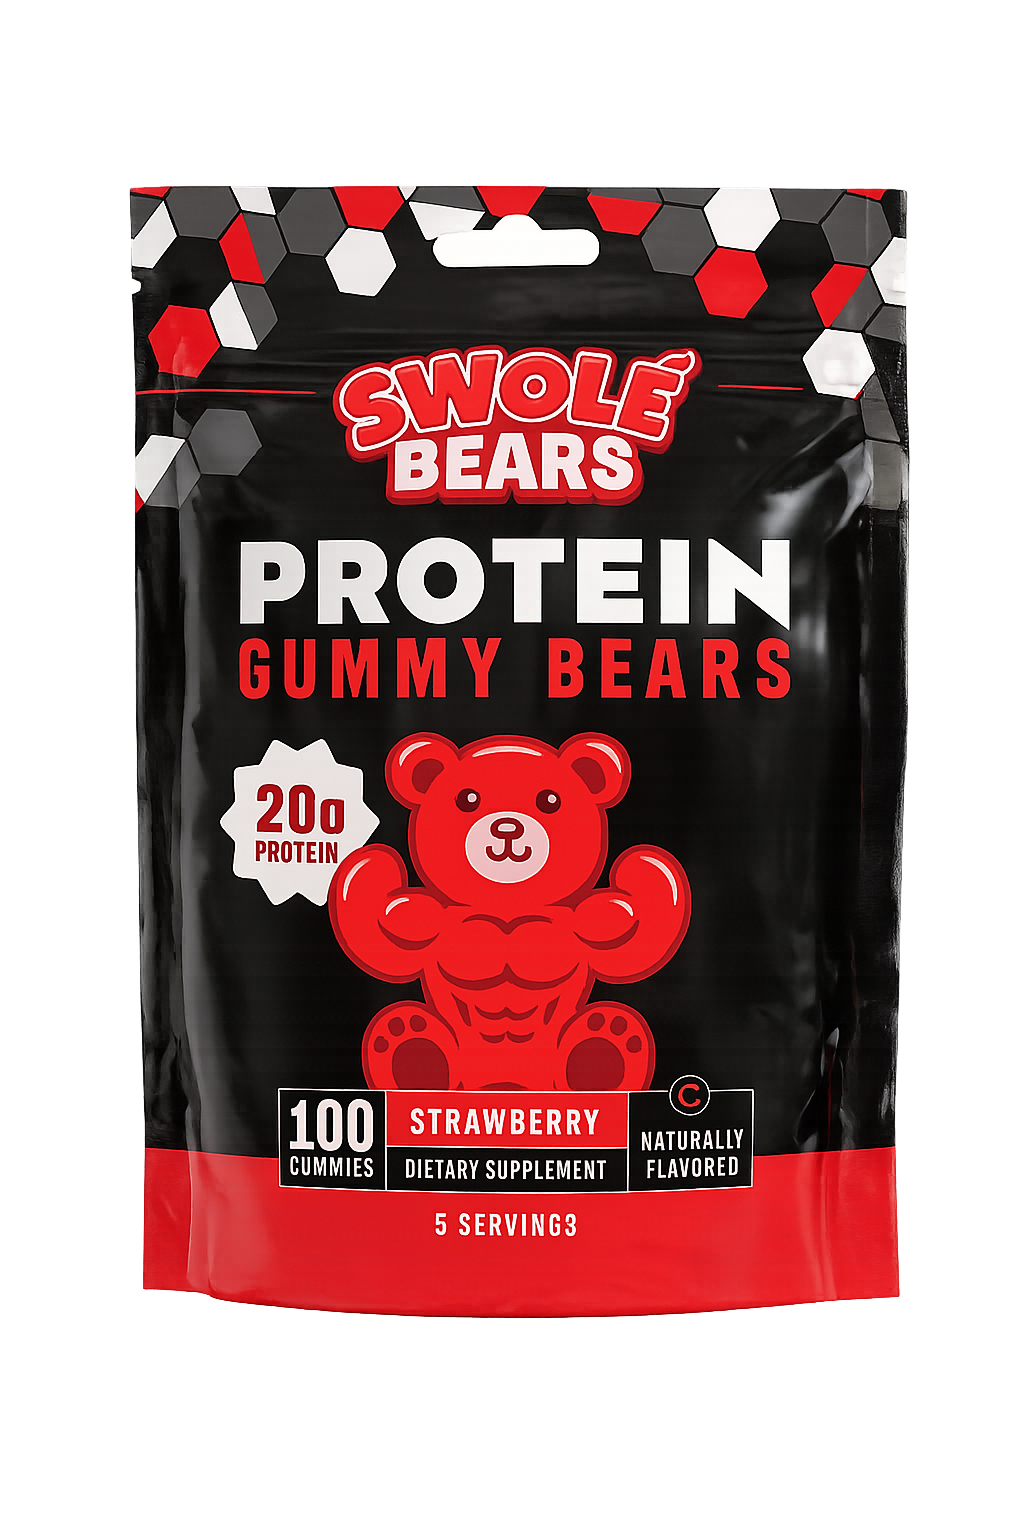
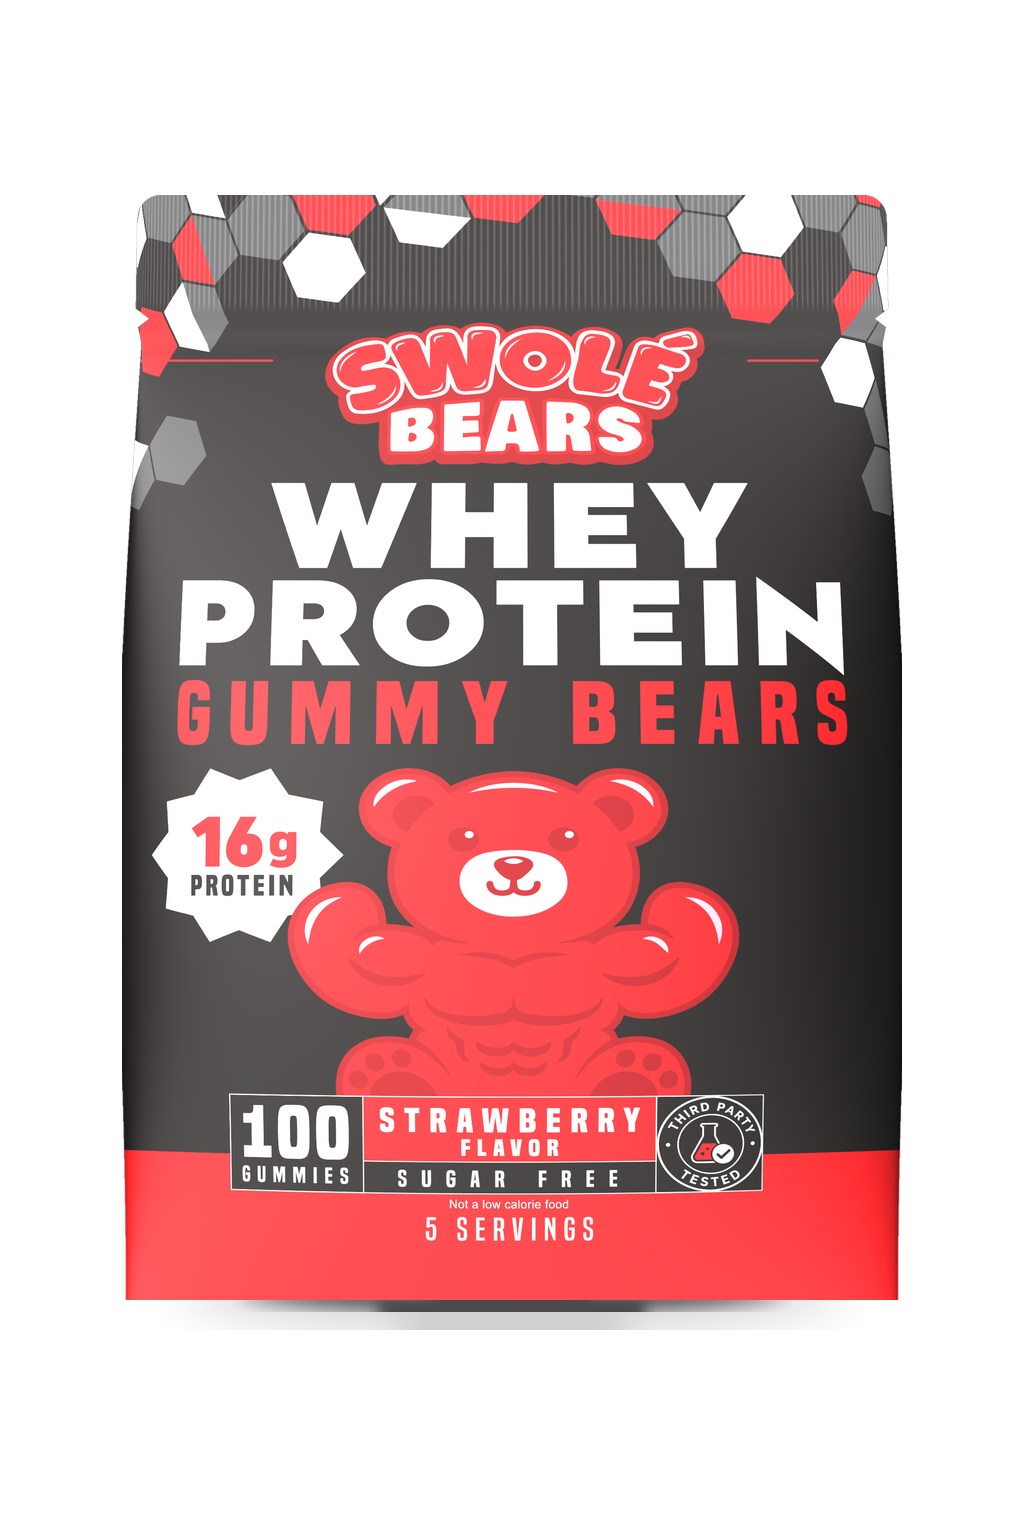
Update protein to 16g and new accurate pouch render

diff --git a/templates/partials/product_highlight.html b/templates/partials/product_highlight.html
@@ -11,7 +11,7 @@
             <!-- Left Stats -->
             <div class="flex-1 w-full space-y-6 lg:text-right flex flex-col items-center lg:items-end order-2 lg:order-1">
                 <div class="bg-black/50 border border-white/5 p-6 rounded-2xl w-full max-w-sm hover:border-brand-red/30 transition">
-                    <h4 class="text-red-500 font-black text-2xl mb-1">[20]g</h4>
+                    <h4 class="text-red-500 font-black text-2xl mb-1">16g</h4>
                     <p class="font-bold text-white uppercase tracking-wide text-sm">Whey Protein Isolate</p>
                     <p class="text-xs text-gray-500 mt-2">Fast absorbing, premium quality fuel.</p>
                 </div>
@@ -35,7 +35,7 @@
                 <div class="bg-black/50 border border-white/5 p-6 rounded-2xl w-full max-w-sm hover:border-brand-red/30 transition">
                     <h4 class="text-red-500 font-black text-2xl mb-1">100</h4>
                     <p class="font-bold text-white uppercase tracking-wide text-sm">Gummies Per Bag</p>
-                    <p class="text-xs text-gray-500 mt-2">10 Servings. True value.</p>
+                    <p class="text-xs text-gray-500 mt-2">5 Servings. True value.</p>
                 </div>
                 <div class="bg-black/50 border border-white/5 p-6 rounded-2xl w-full max-w-sm hover:border-brand-red/30 transition">
                     <h4 class="text-red-500 font-black text-2xl mb-1">KETO</h4>

diff --git a/templates/partials/hero.html b/templates/partials/hero.html
@@ -76,11 +76,11 @@
         <!-- Product Image Side -->
         <div class="flex-1 w-full max-w-lg mx-auto relative perspective-[1000px]">
              <!-- Main Product Mockup -->
-            <img src="{% static 'images/product_bag.png' %}" alt="Swolé Bears Fruit Punch Protein Gummys" class="w-full drop-shadow-[0_25px_35px_rgba(226,30,38,0.25)] relative z-20 animate-float">
+            <img src="{% static 'images/product_bag.png' %}" alt="Swolé Bears Strawberry Protein Gummies" class="w-full drop-shadow-[0_25px_35px_rgba(226,30,38,0.25)] relative z-20 animate-float">
             
             <!-- Contextual Badges -->
             <div class="absolute top-1/4 -right-4 md:-right-12 z-30 bg-black/60 backdrop-blur-md border border-brand-red/40 px-5 py-3 rounded-2xl shadow-xl transform rotate-3">
-                <span class="block text-3xl font-black text-white leading-none">[20]g</span>
+                <span class="block text-3xl font-black text-white leading-none">16g</span>
                 <span class="block text-[10px] uppercase text-red-400 tracking-wider font-bold">Protein</span>
             </div>
             

diff --git a/templates/partials/lifestyle.html b/templates/partials/lifestyle.html
@@ -28,7 +28,7 @@
                     <div class="mt-1 flex-shrink-0 flex items-center justify-center w-8 h-8 rounded-full bg-green-900/50 text-green-500"><span class="text-xl">✓</span></div>
                     <div>
                         <h4 class="text-xl font-bold text-white mb-1">The Swolé Bears Way</h4>
-                        <p class="text-gray-300 text-sm leading-relaxed">Tear open a bag, eat 10 delicious fruit-punch gummies, hit your protein goals, and walk away clean. It's the bridge between fun candy and functional fuel.</p>
+                        <p class="text-gray-300 text-sm leading-relaxed">Tear open a bag, enjoy delicious strawberry gummies, hit your protein goals, and walk away clean. It's the bridge between fun candy and functional fuel.</p>
                     </div>
                 </div>
             </div>

diff --git a/templates/partials/faq.html b/templates/partials/faq.html
@@ -63,7 +63,7 @@
                         </span>
                     </summary>
                     <div class="text-gray-400 p-6 pt-0 leading-relaxed text-sm border-t border-white/5 mx-6 pb-6">
-                        We are launching with our flagship [PLACEHOLDER: Fruit Punch] flavor because the taste-testing results were legendary. Once we validate demand, we have [PLACEHOLDER: 3] more nostalgic flavors ready to drop.
+                        We are launching with our flagship Strawberry flavor because the taste-testing results were legendary. Once we validate demand, we have 3 more nostalgic flavors ready to drop.
                     </div>
                 </details>
             </div>
